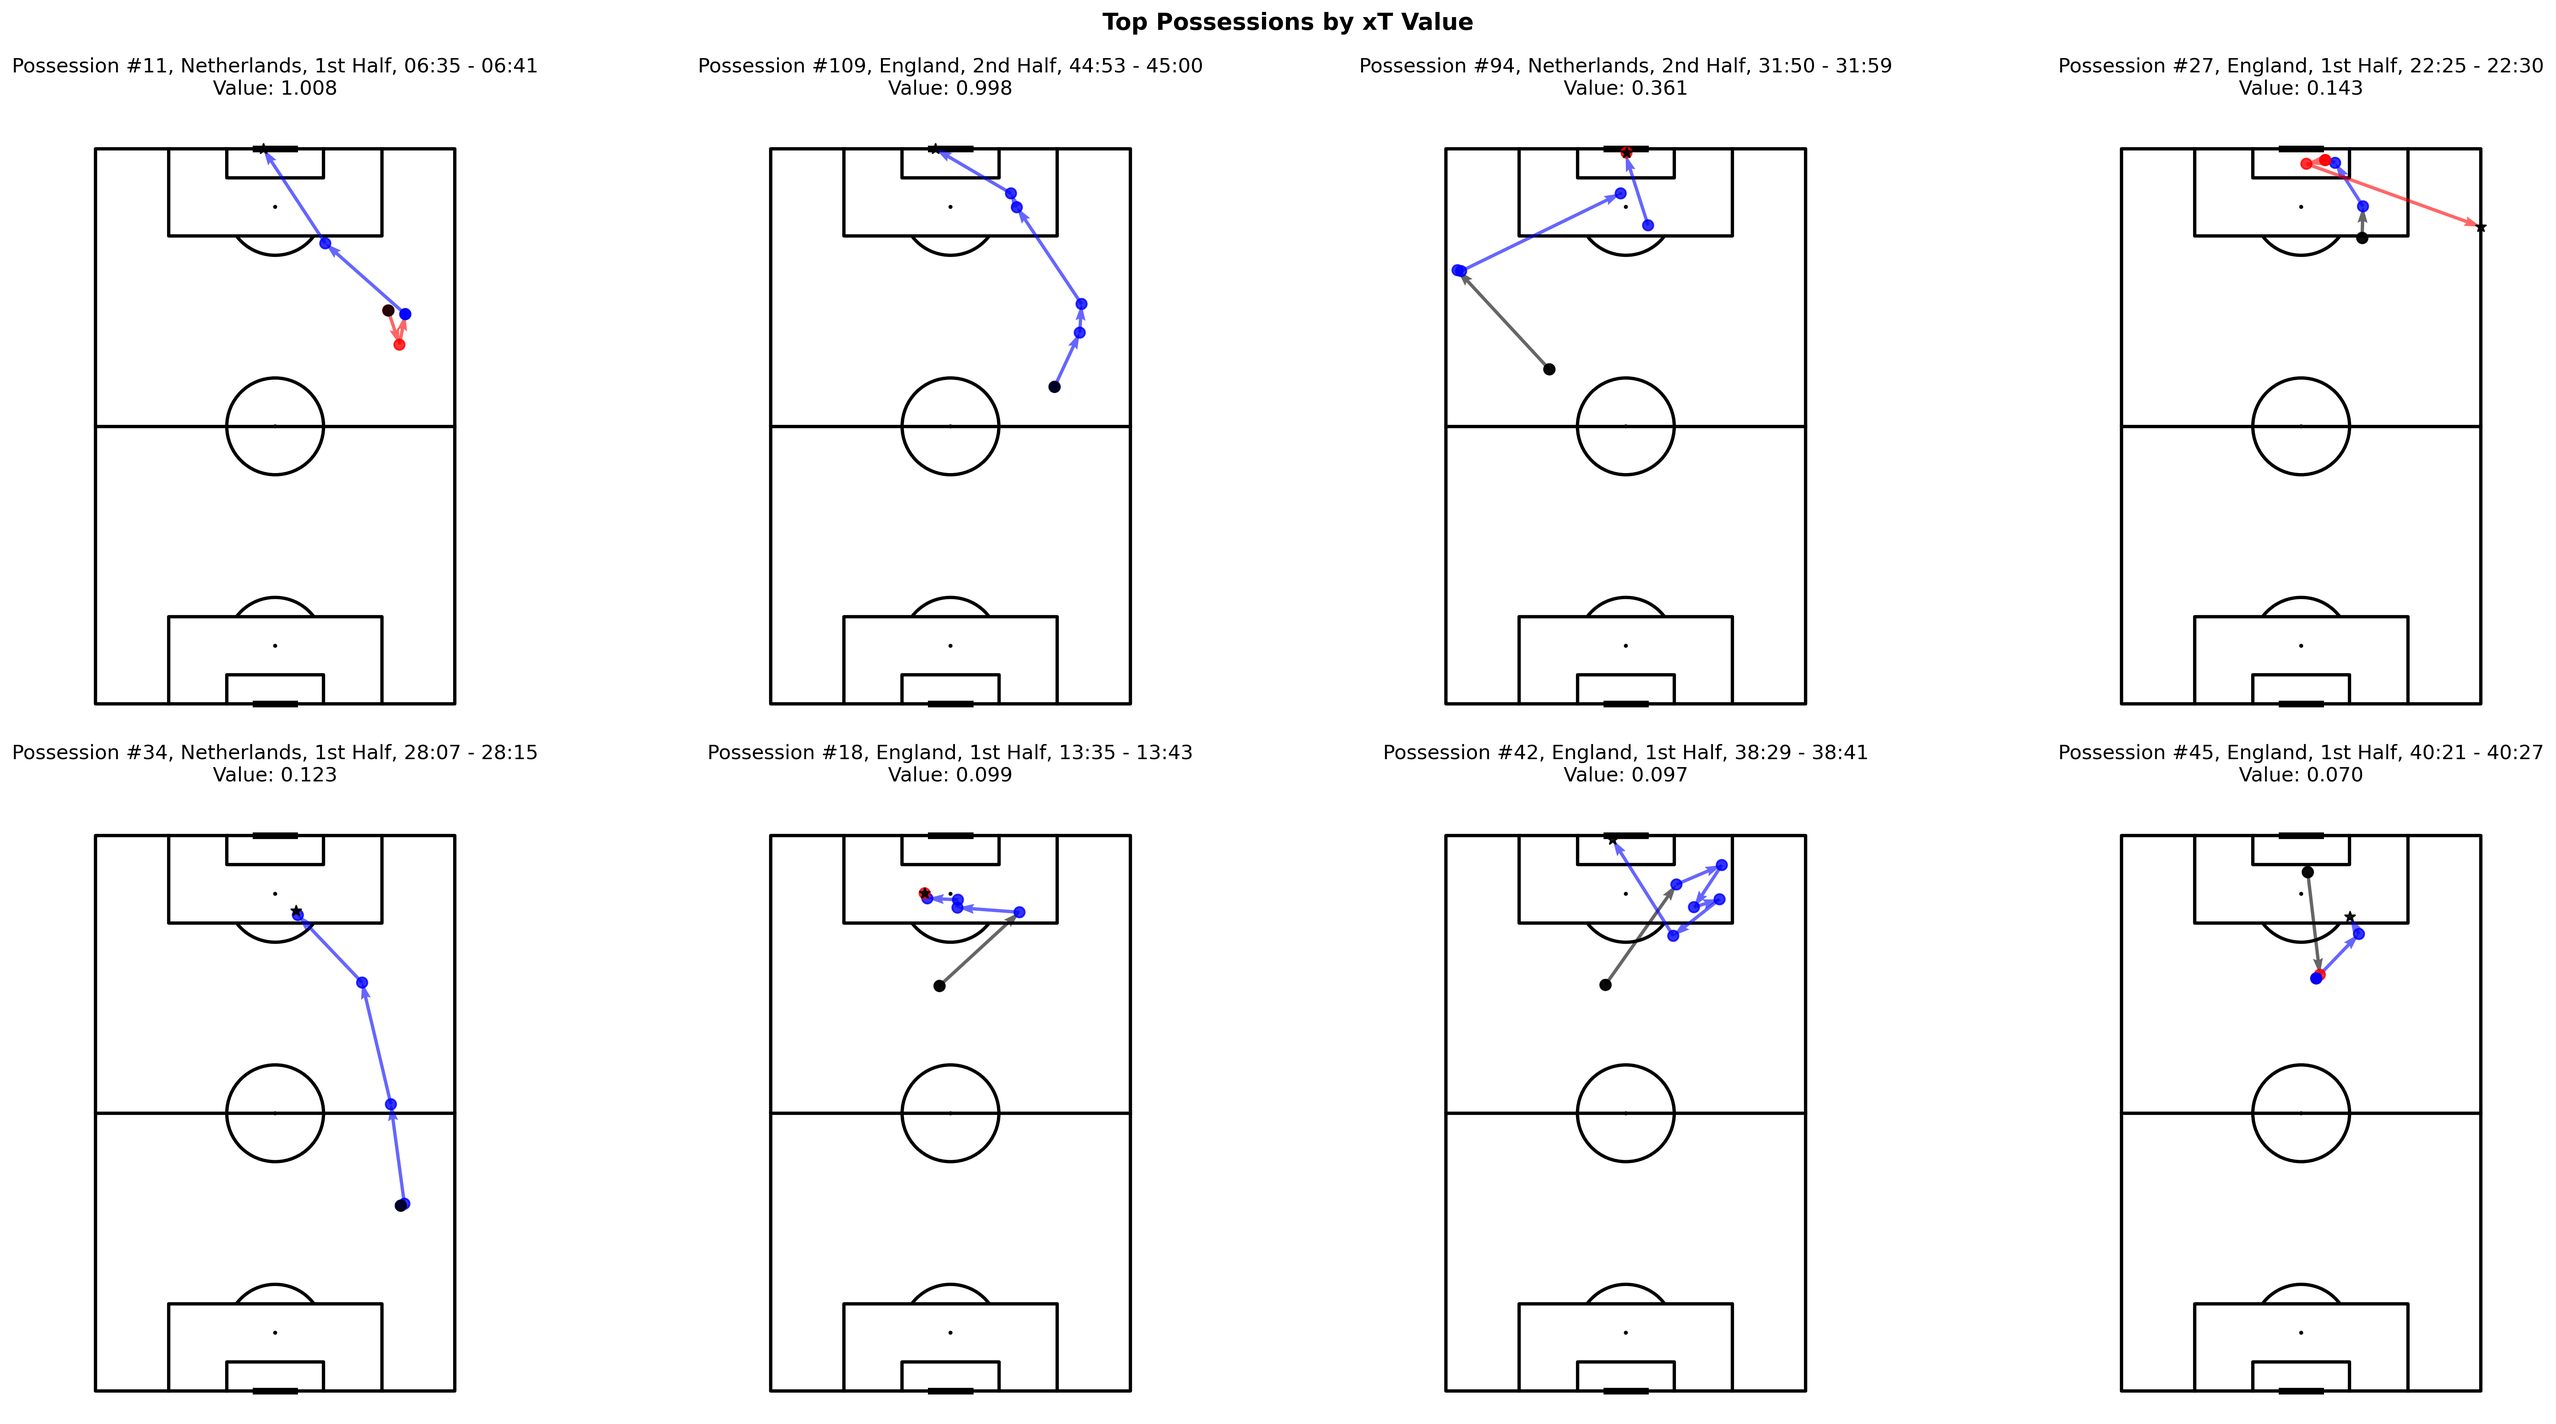
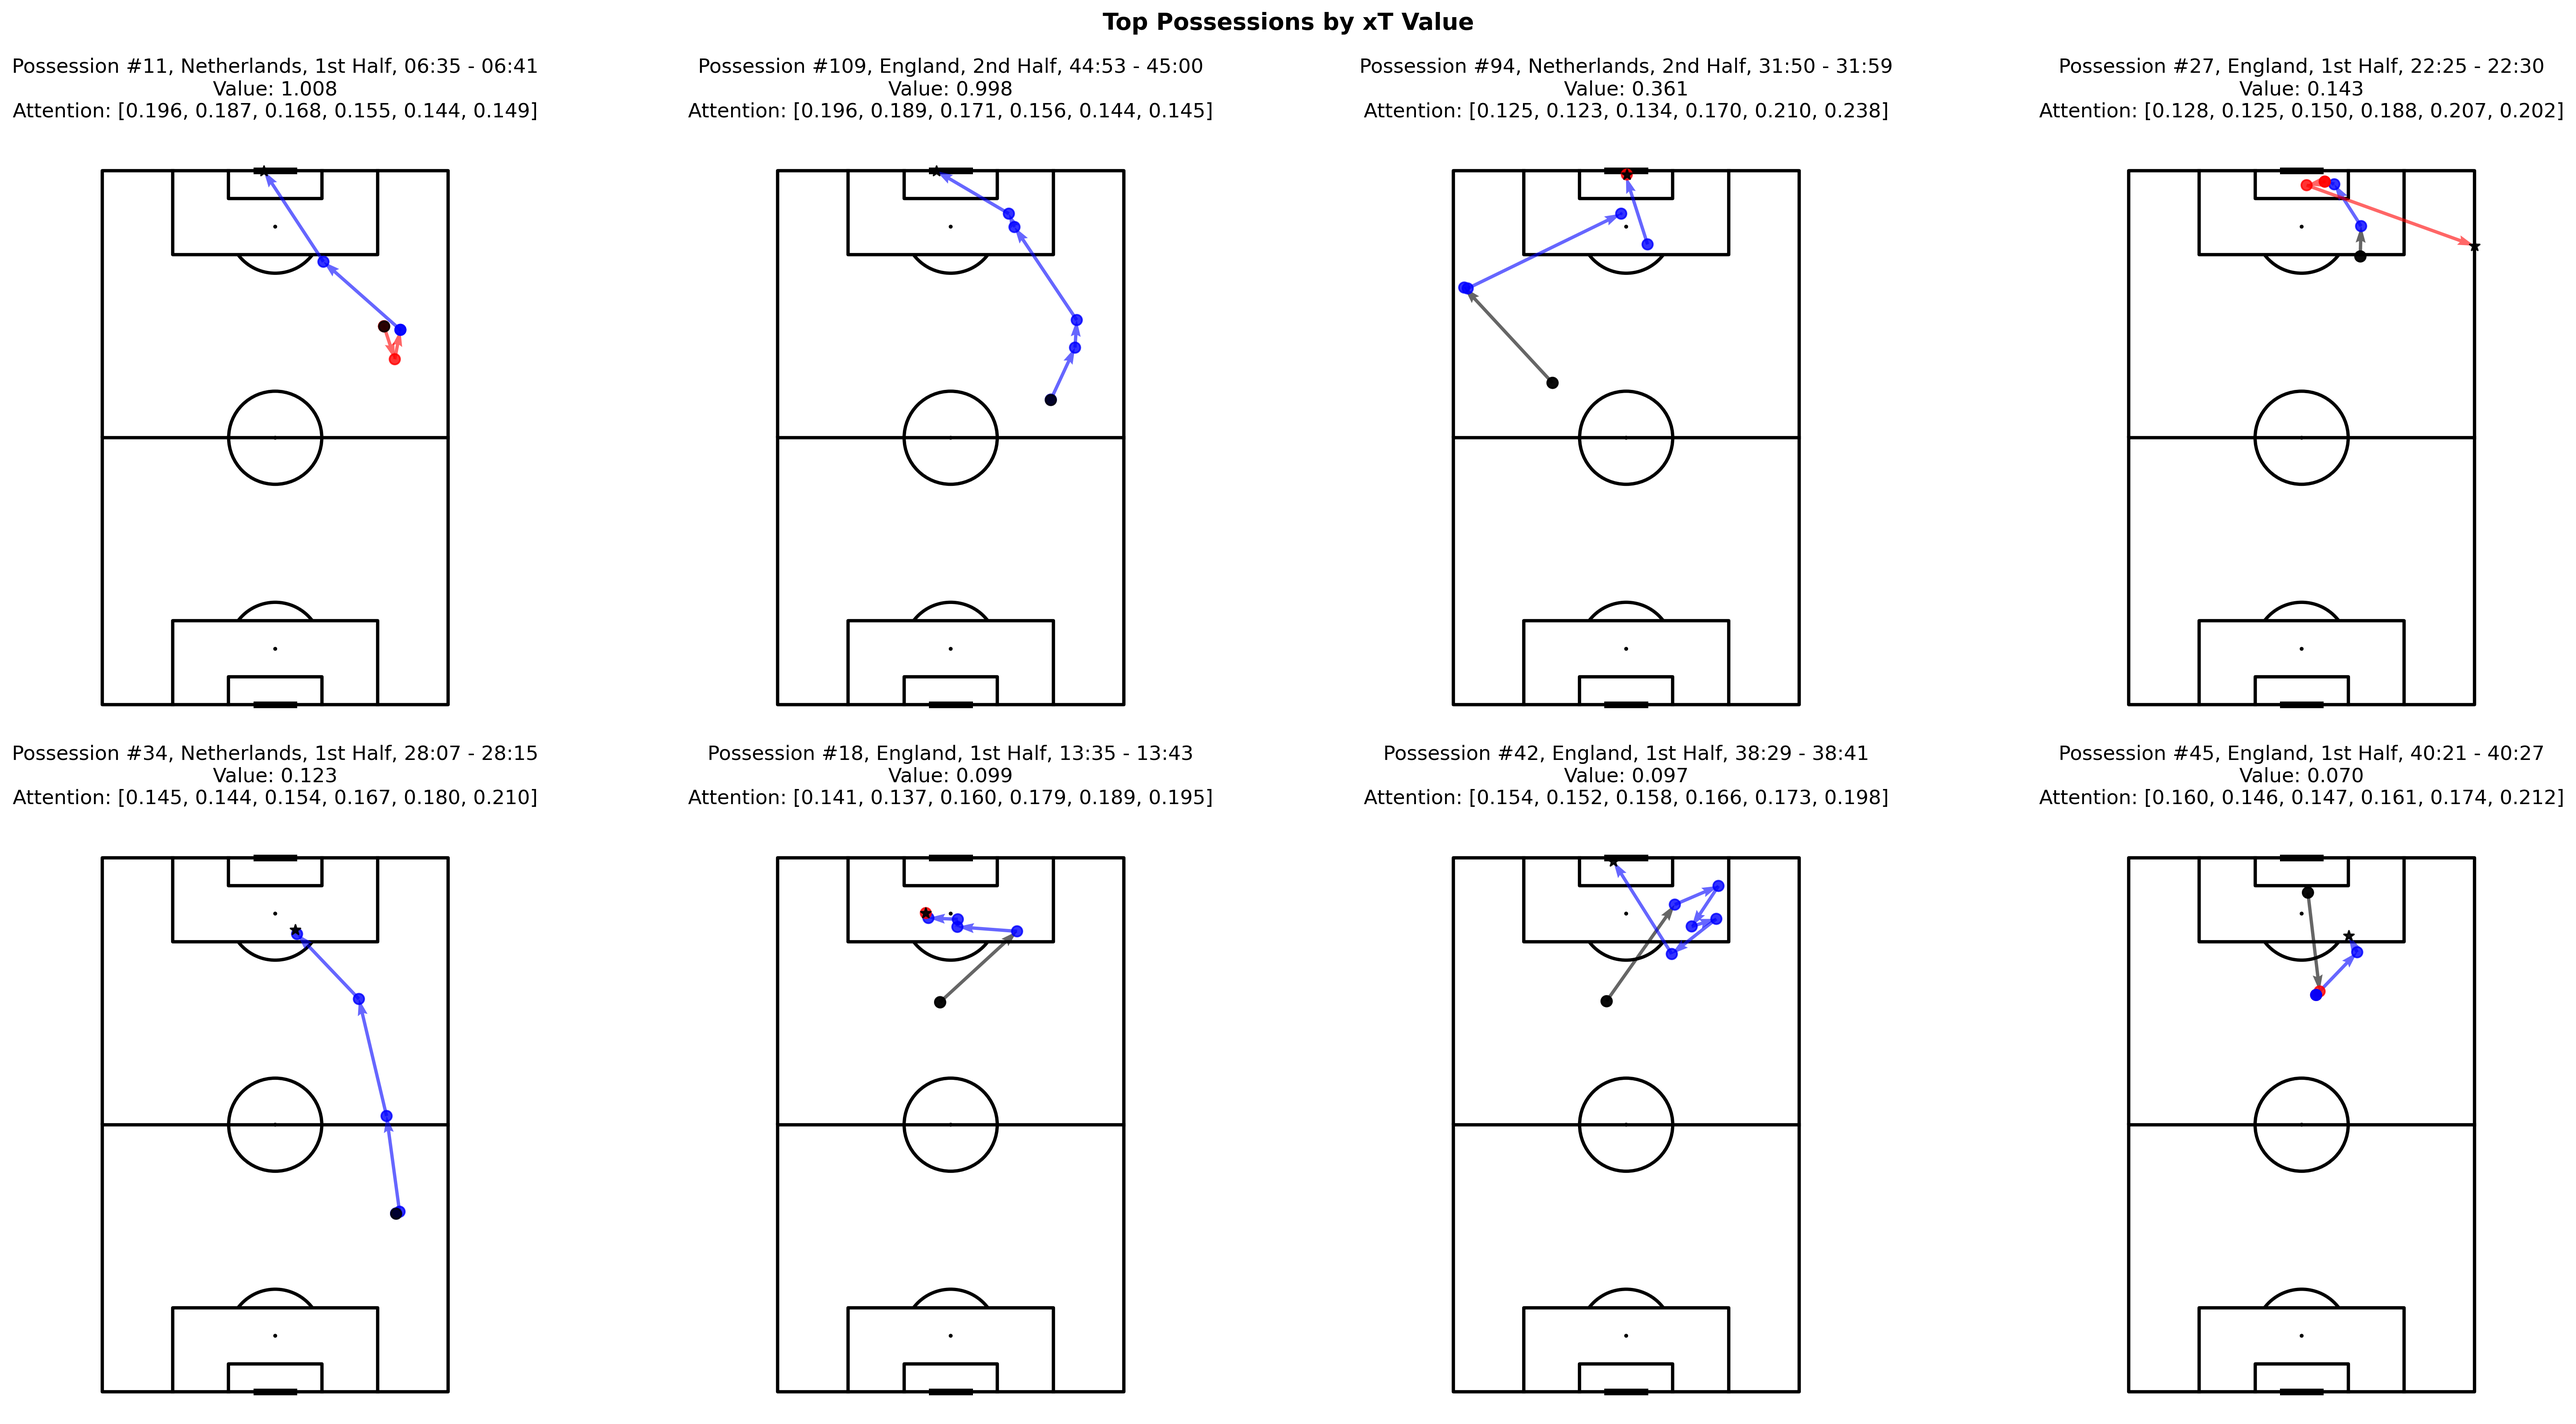
feat: add attention weights to possession title for enhanced visualization

diff --git a/src/analysis/visualization.py b/src/analysis/visualization.py
@@ -120,8 +120,9 @@ def _title_with_value(possession_actions: DataFrame, predicted_value: float, att
     period_name = "1st Half" if period_id == 1 else "2nd Half"
     title = f"Possession #{possession_number}, {team_name}, {period_name}, {time_start_formatted} - {time_end_formatted}\nValue: {predicted_value:.3f}"
 
-    # if attention_weights is not None:
-    #     title += f"\nAttention: {attention_weights}"
+    if attention_weights is not None:
+        weights_str = ', '.join([f"{w:.3f}" for w in attention_weights])
+        title += f"\nAttention: [{weights_str}]"
 
     return title
 
